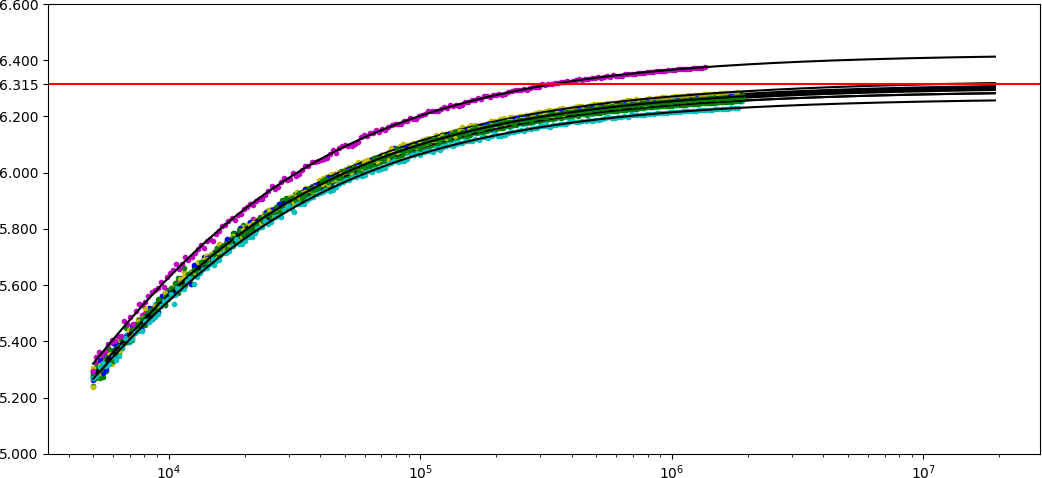
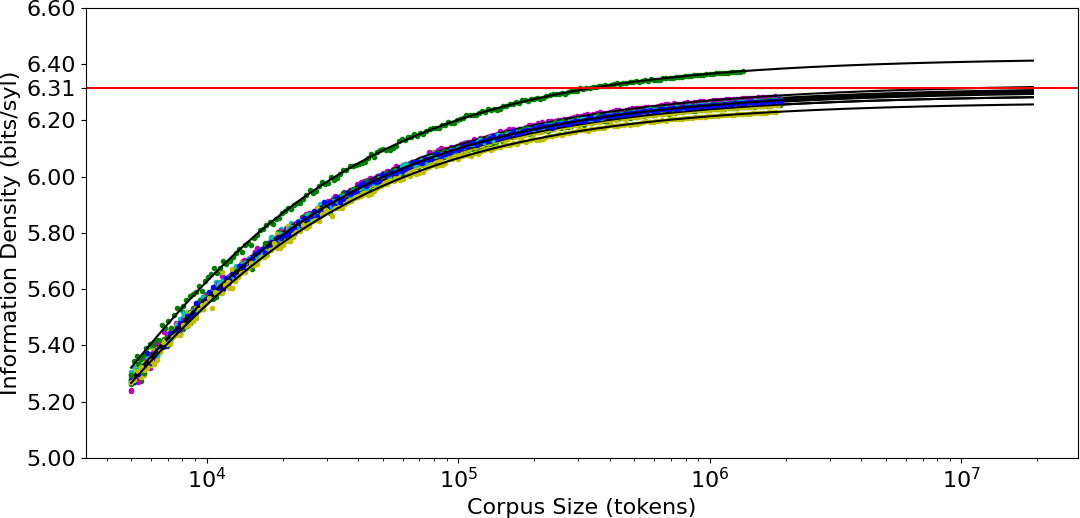
miscellaneous untracked work

diff --git a/plots.py b/plots.py
@@ -51,11 +51,11 @@ class Dataset:
 		self.pys = self.func(self.pxs, *self.popt)
 	
 	def draw_curve(self, format='-r'):
-		plt.plot(self.pxs, self.pys, format)
+		plt.plot(self.pxs, self.pys, format, label='Fitted Curve')
 	
 	def draw_asymptote(self, line='--', color='g', include_tick=True):
 		y = self.popt[0]
-		plt.axhline(y=y, linestyle=line, color=color)
+		plt.axhline(y=y, linestyle=line, color=color, label='Prediction')
 		if include_tick:
 			newticks = [y]
 			plt.yticks(list(plt.yticks()[0]) + newticks) # Add an extra tick to the y-axis
@@ -78,32 +78,41 @@ class CSVDataset(Dataset):
 		self.p0 = np.array([max(self.ys), 300, -1, 1])
 
 def basic():
+	plt.rcParams.update({'font.size': 16})
 	d = Dataset('math/latin_log_complete.pickle.bz2')
 	d.fit_curve()
 	d.mark_curve(xmax = max(d.xs)*10)
 #	d.draw_data('r.')
-	plt.plot(d.xs, d.ys, '.', color='#ff7070')
-	d.draw_curve('-k')
-	d.draw_asymptote('--', 'r', False)
+	plt.plot(d.xs, d.ys, '.', color='#ff7070', label='With Digesta')
 	print(d.popt)
 	
 	d2 = Dataset('math/latin_log.pickle.bz2')
 	d2.fit_curve()
 	d2.mark_curve(xmax = max(d.xs)*10)
 #	d2.draw_data('b.')
-	plt.plot(d2.xs, d2.ys, '.', color='#70c4ff')
-	d2.draw_curve('-k')
-	d2.draw_asymptote('--', 'b')
+	plt.plot(d2.xs, d2.ys, '.', color='#70c4ff', label='Without Digesta')
 	print(d2.popt)
 	
+	d.draw_asymptote('--', 'r', False)
+	d2.draw_asymptote('--', 'b')
+	
+	d.draw_curve('-k')
+	d2.draw_curve('-k')
+	
+	plt.xlabel('Corpus Size (tokens)')
+	plt.ylabel('Information Density (bits/syl)')
+	plt.legend(loc='lower right')
+	plt.gca().yaxis.set_major_formatter(StrMethodFormatter('{x:,.2f}')) # 2 decimal places
 	d.show()
 
 def figures_for_presentation():
+	plt.rcParams.update({'font.size': 16})
+	
 	d = Dataset('math/latin_log.pickle.bz2')
 	d.fit_curve()
 	d.mark_curve(xmax = max(d.xs)*100)
 #	d.draw_data('b.')
-	plt.plot(d.xs, d.ys, '.', color='#70c4ff')
+	plt.plot(d.xs, d.ys, '.', color='#70c4ff', label='Data')
 	d.draw_curve('-k')
 #	plt.plot(d.pxs, d.pys, '-k', alpha=0)
 	d.draw_asymptote('--', 'r')
@@ -114,6 +123,7 @@ def figures_for_presentation():
 	plt.gca().yaxis.set_major_formatter(StrMethodFormatter('{x:,.2f}')) # 2 decimal places
 #	newticks = [6.4]
 #	plt.yticks(list(plt.yticks()[0]) + newticks) # Add an extra tick to the y-axis
+	plt.legend()
 	
 	d.show()
 
@@ -166,6 +176,7 @@ def compare_latin():
 	d0.show()
 
 def compare_latin_authors():
+	plt.rcParams.update({'font.size': 16})
 	vals = []
 	
 	d0 = Dataset('math/latin_log.pickle.bz2')
@@ -188,6 +199,10 @@ def compare_latin_authors():
 #	d0.draw_curve('-k')
 	d0.draw_asymptote('-', 'r')
 	
+	plt.xlabel('Corpus Size (tokens)')
+	plt.ylabel('Information Density (bits/syl)')
+	plt.gca().yaxis.set_major_formatter(StrMethodFormatter('{x:,.2f}'))
+	
 	print(f'Actual value: {d0.popt[0]}')
 	print(f'Approximated value: {sum(vals)/len(vals)}')
 	print(f'Approximated standard error: {np.std(vals, ddof=1)}')
@@ -207,4 +222,4 @@ def latin_sylfreq_histogram():
 	plt.plot(data[::-1])
 	plt.show()
 
-if __name__ == '__main__': basic()
+if __name__ == '__main__': figures_for_presentation()

diff --git a/data/latin/corpus.py b/data/latin/corpus.py
@@ -176,11 +176,11 @@ def author_data():
 
 def author_data_2():
 	input()
-	with bz2.open('phi5_complete.pickle.bz2', 'r') as f:
+	with bz2.open('phi5.pickle.bz2', 'r') as f:
 		d = pickle.load(f)
 	c1, c2 = len(d), sum(d.values())
 	print('Total', c1, c2)
-	for auth in Path('auth_all').glob('*.pickle.bz2'):
+	for auth in Path('auth').glob('*.pickle.bz2'):
 		with bz2.open(auth, 'r') as f:
 			d = pickle.load(f)
 		t1, t2 = len(d), sum(d.values())

diff --git a/plots2.py b/plots2.py
@@ -65,8 +65,8 @@ def make_plot_2():
 	d2 = [np.array(data[lang]) for lang in langs]
 	for i, (d, c) in enumerate(zip(d2, 'ybrybgr')):
 		violin_manual(d, i, c)
-	#violin_manual([], i+1, 'k', (6.19,0.81))
-	#langs += ['LAT']
+	violin_manual([], i+1, 'k', (6.19,0.81))
+	langs += ['LAT']
 	plt.xticks(range(len(langs)), langs)
 	plt.ylabel('Speech rate (syllables per second)')
 	plt.grid(axis='y', linestyle=':', color='k', alpha=0.5)

diff --git a/analyze.py b/analyze.py
@@ -260,7 +260,7 @@ def auth_test():
 
 def basic():
 	an = Analysis()
-	an.load_corpus('data/latin/phi5.pickle.bz2')
+	an.load_corpus('data/latin/phi5_complete.pickle.bz2')
 	e1, e2 = an.do_things()
 	print(f'SE: {e1}\nID: {e2}')
 
@@ -274,4 +274,4 @@ def freqs():
 	e1, e2 = an.do_things()
 	print(f'SE: {e1}\nID: {e2}')
 
-if __name__ == '__main__': simple_test()
+if __name__ == '__main__': basic()
